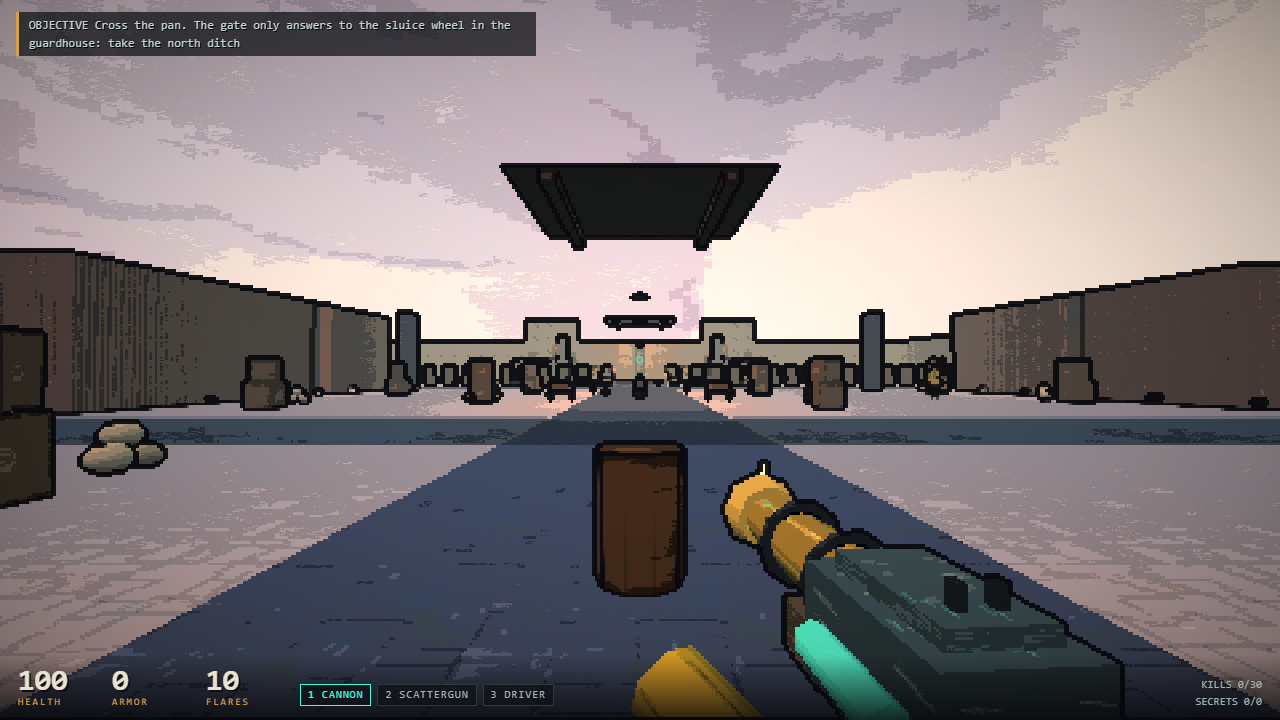
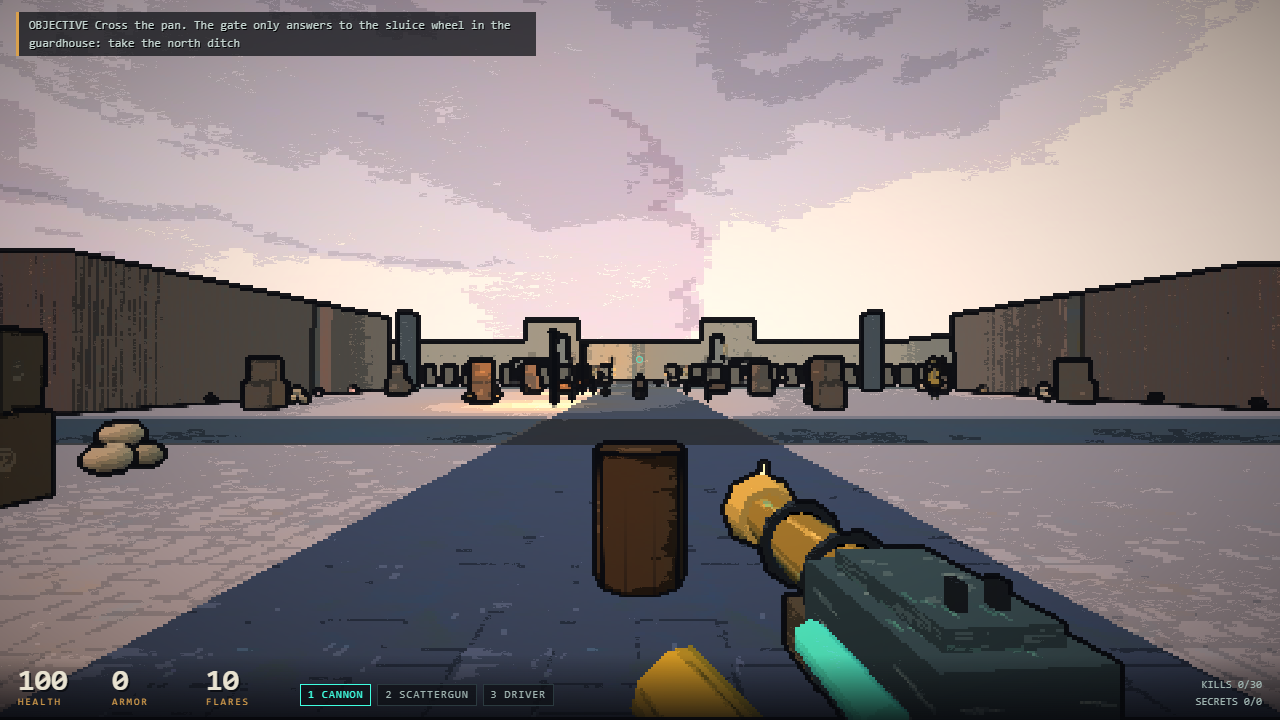
PT-007 evidence: pilot re-verified from clean commit 871f5c7 (browser-map + verify-map x10, 10 AGENT_VERIFIED); tour reshot; report note

diff --git a/review/gate-3/REPORT.md b/review/gate-3/REPORT.md
@@ -23,3 +23,6 @@ Nobody has played the pilot (balance, readability of the pan, the dyke, the towe
 
 ## Your decision
 Approve Gate 3 (then Gate 4 starts, in small batches you set, each played by you before the next), or revise (log what you saw first), and whether to fix the skin cost before Gate 4.
+
+## Correction after the owner's first look (PT-007, same day)
+The owner played the pilot and asked "are we inside or outside?". They were right: the two road bridges used an indoor floor skin and grew ceiling slabs in the sky, and the six road lamps were the ceiling-hung prop, floating at 6 m. My own tour stills showed both and I did not question them; no gate could see it. Fixed in the map (plank bridges, lampposts; a pillar on the Warden's lane: the strafing bot with aim error now completes 16 of 16 seeds on normal and hard), and `tools/maplint.mjs` (run by `verify-map`, so by `npm run map`) now fails a roofed region without walls and a ceiling-hung prop in open air: red on the pilot as shipped (`maplint-vs-PT-007-BEFORE-fix.txt`), green on all Episode 1 maps. The level builder also warns when a `put()` silently replaces an earlier object (it had hidden a Sexton under a lamp). Details: `PLAYTEST_NOTES.md` PT-007. Evidence regenerated from commit `871f5c7`; the pilot is AGENT_VERIFIED again.
